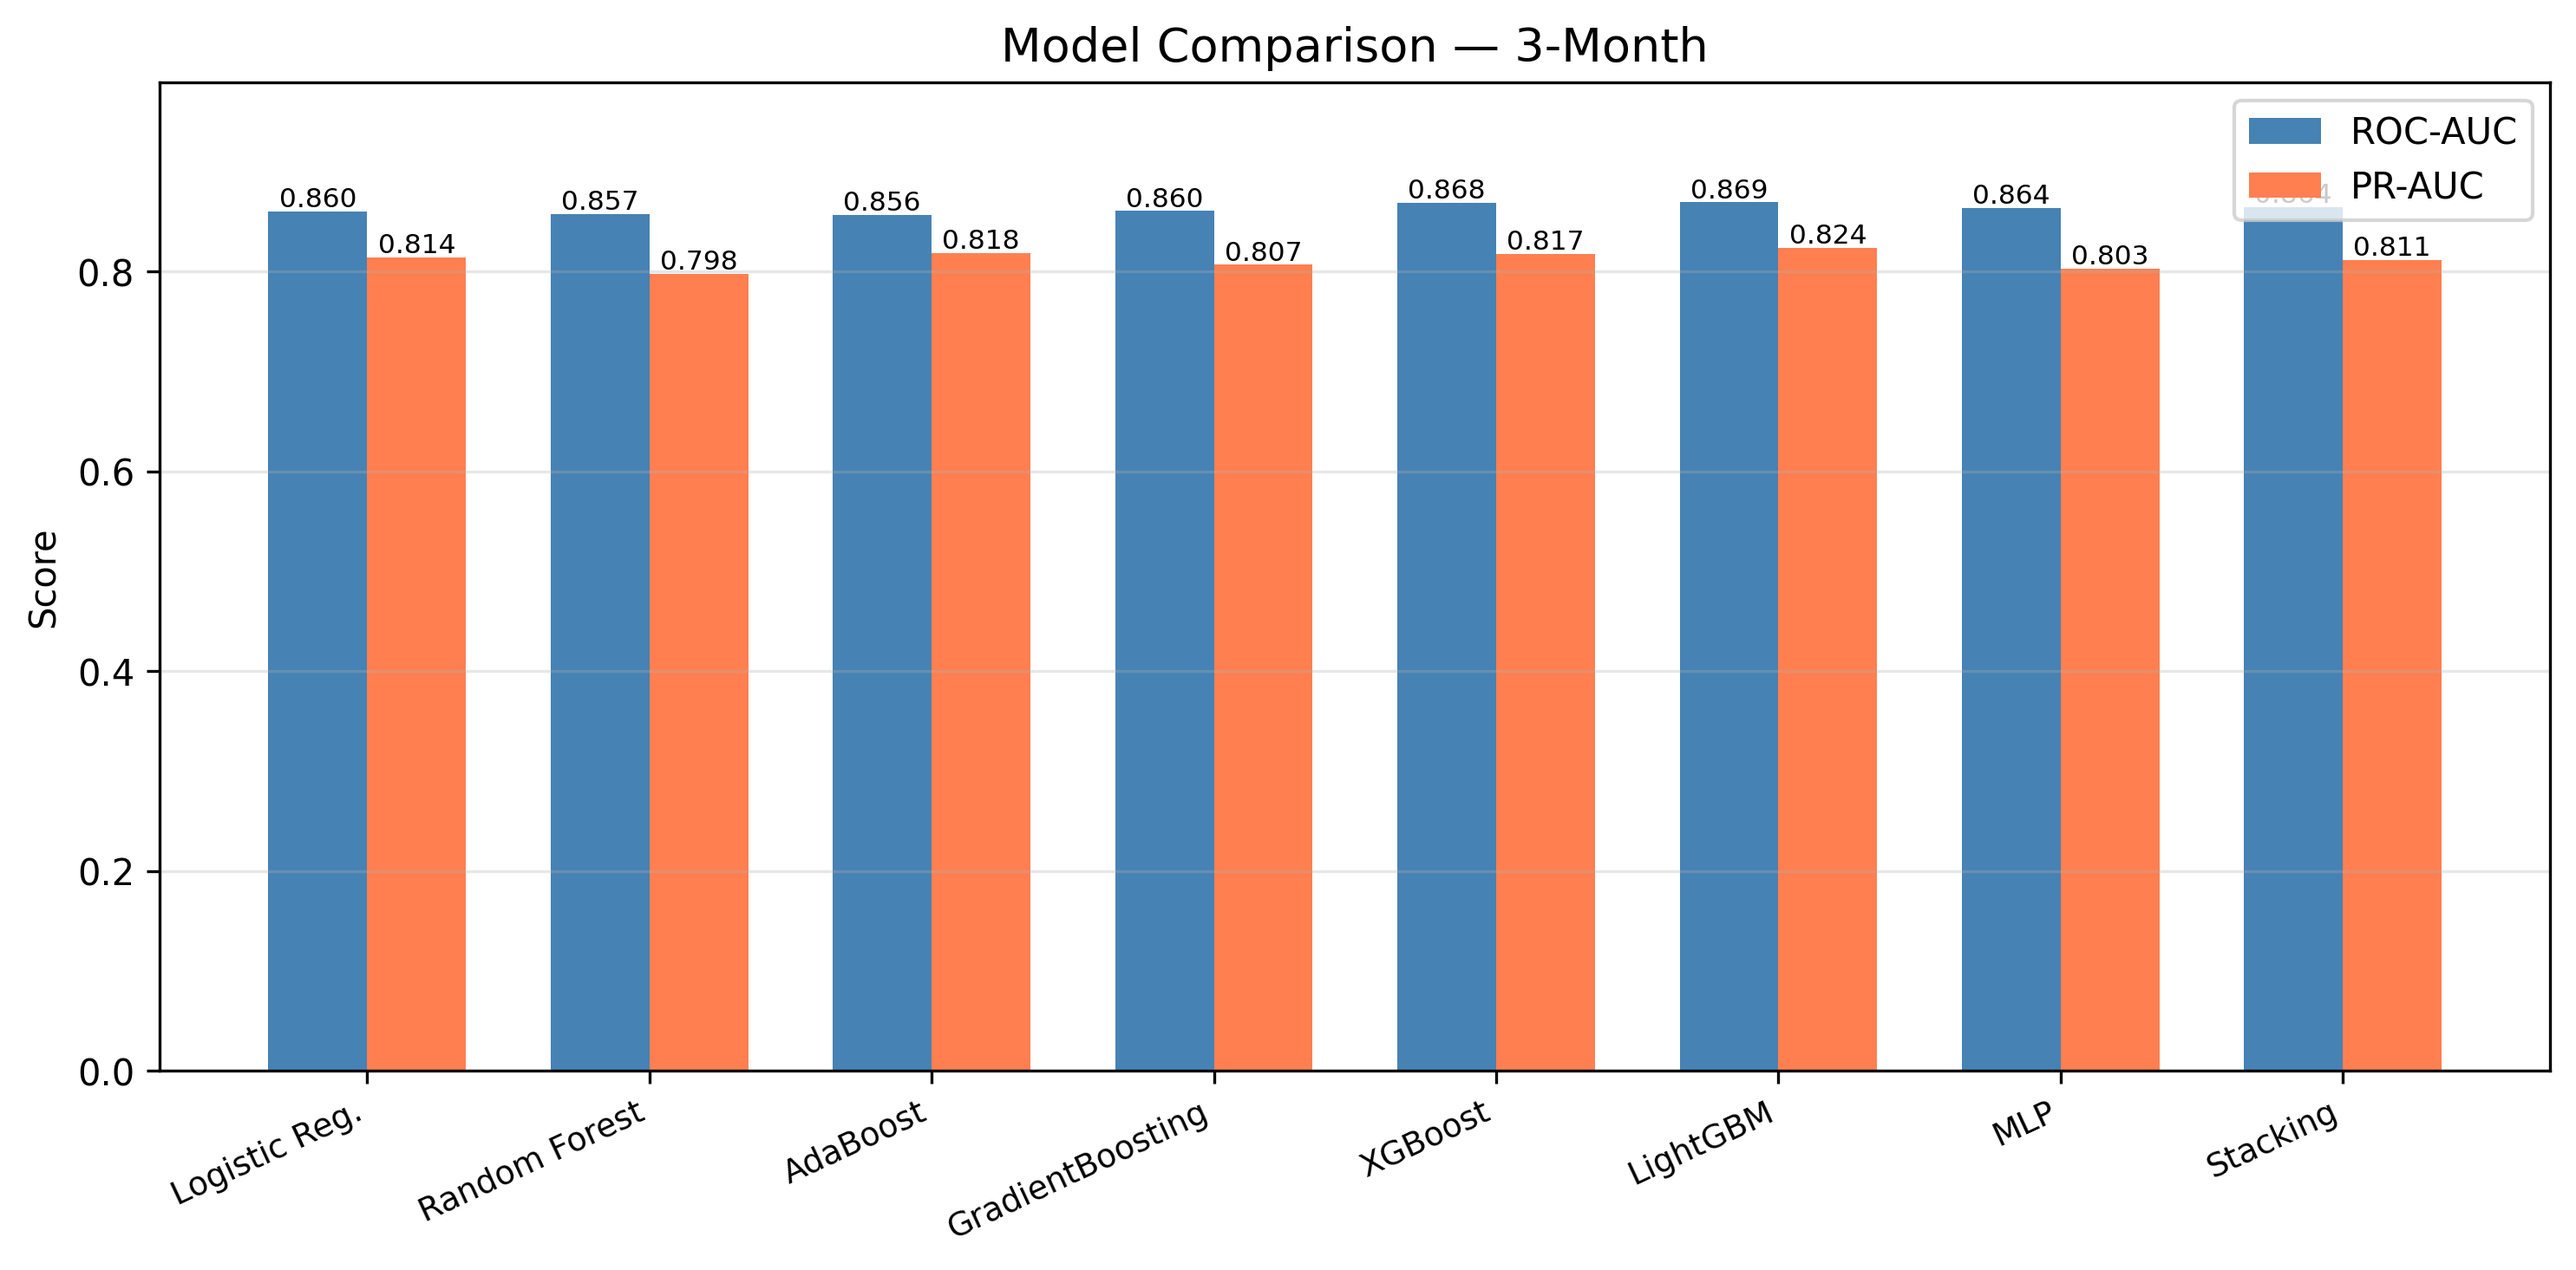
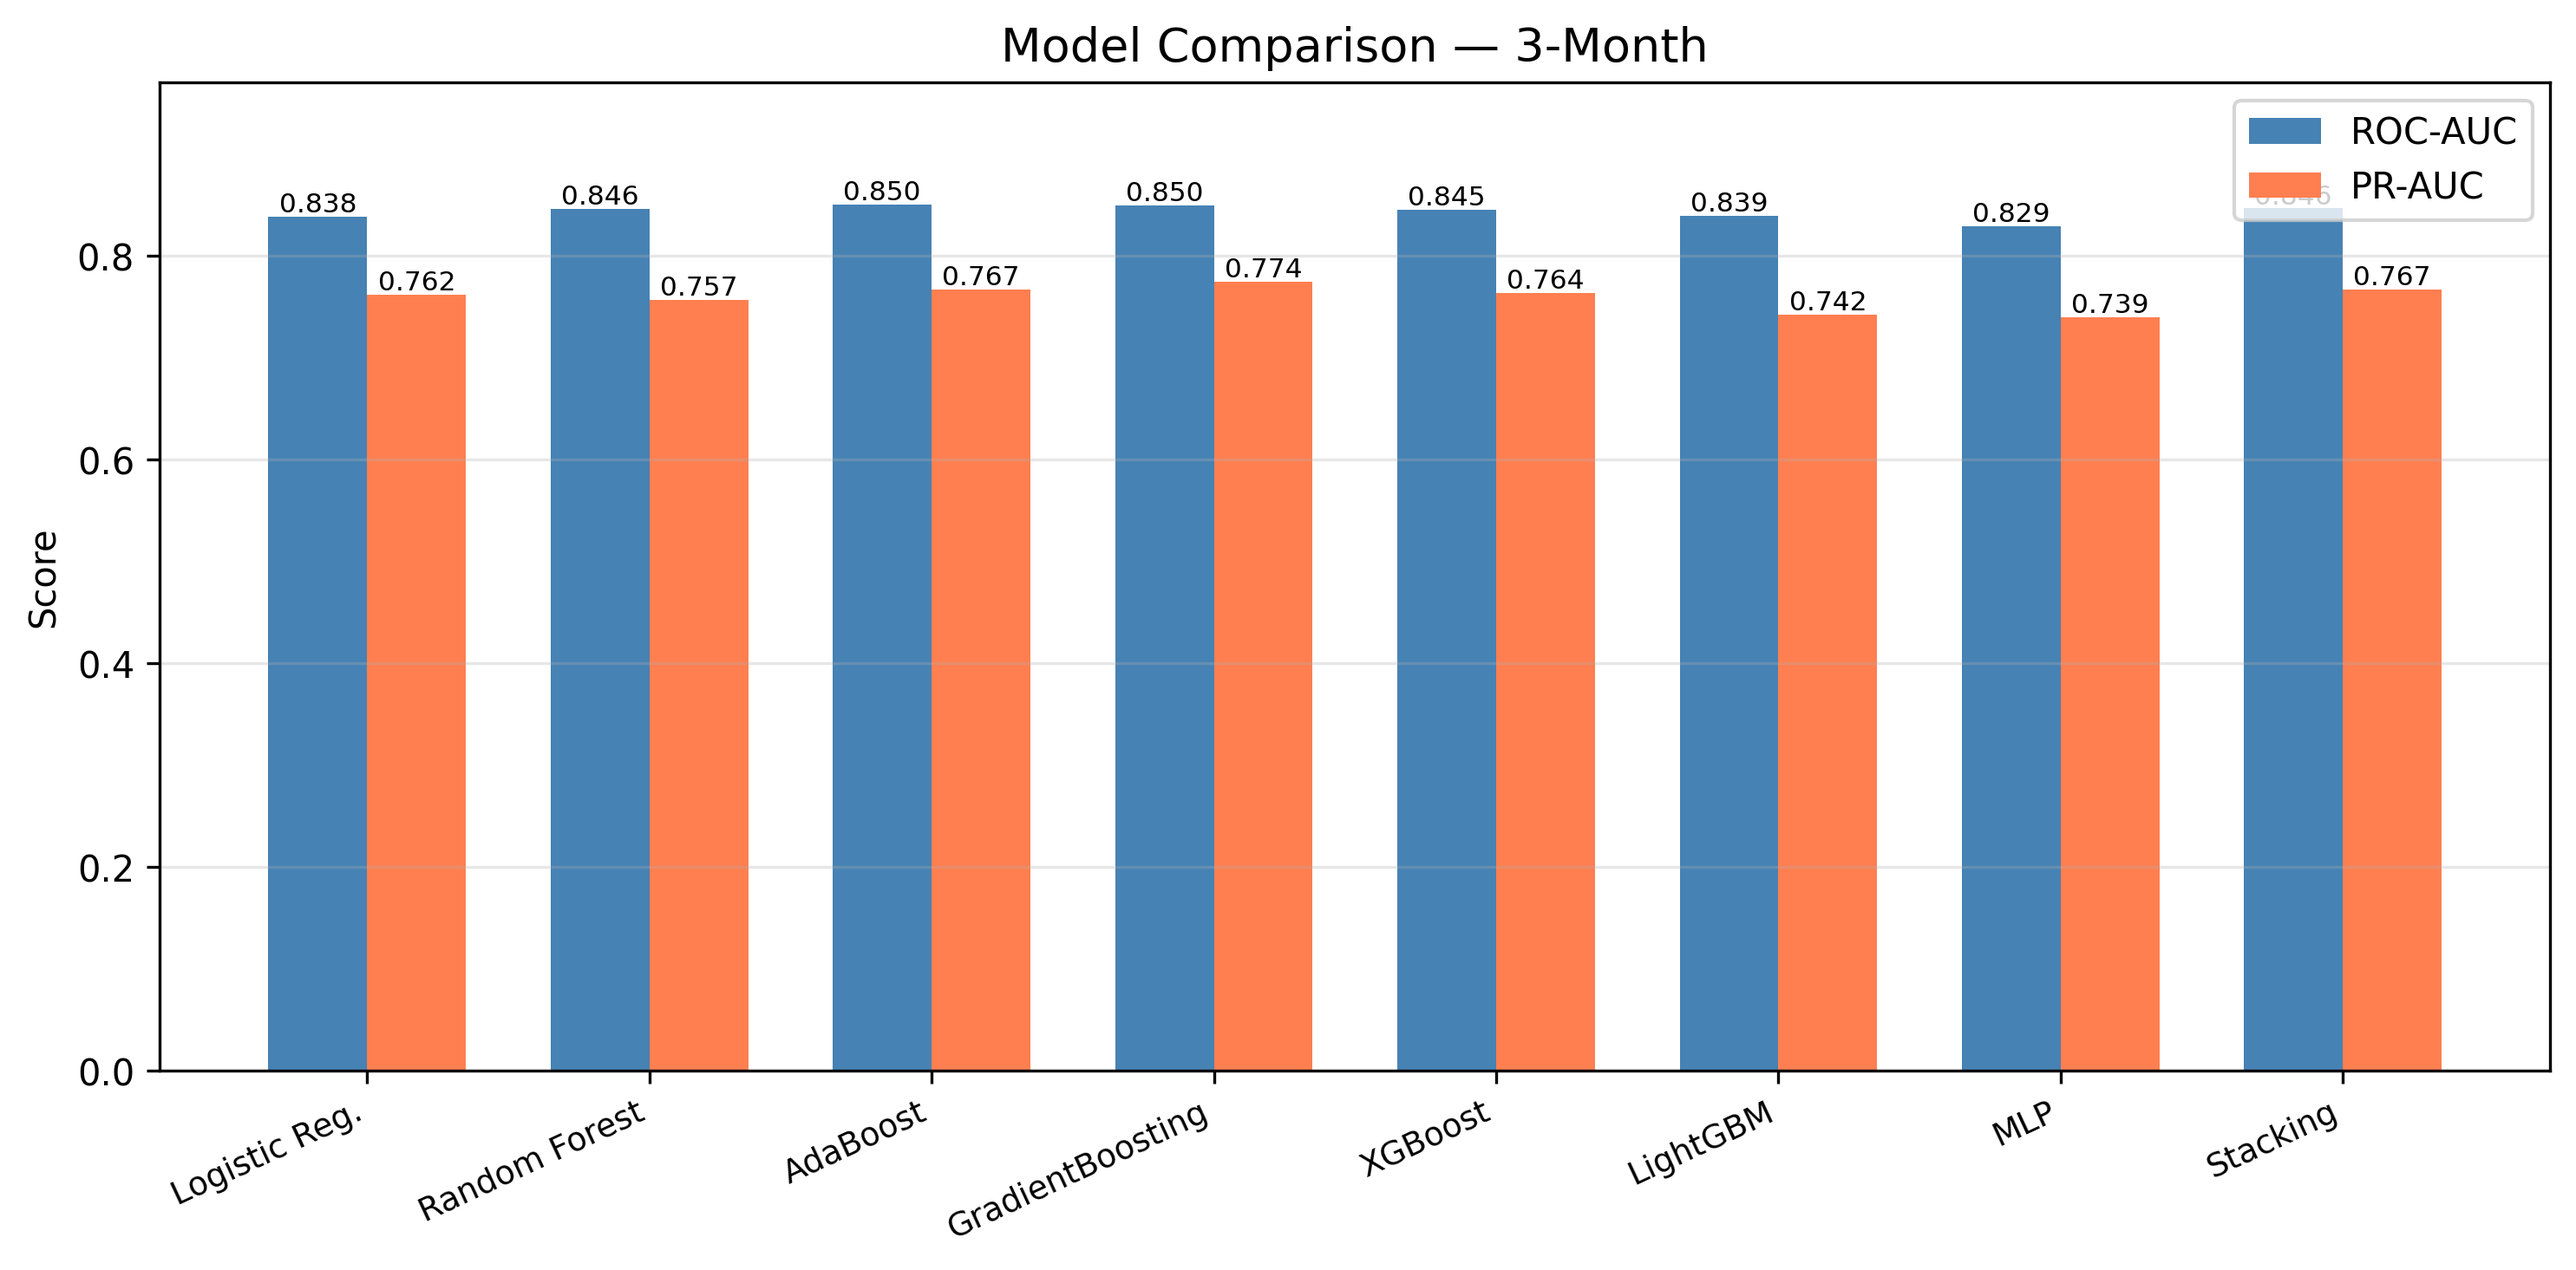
chore: 更新结果与文档
Made-with: Cursor

diff --git a/hyper_detect.py b/hyper_detect.py
@@ -15,7 +15,7 @@ import seaborn as sns
 from pathlib import Path
 import joblib
 
-from sklearn.model_selection import GroupShuffleSplit, RandomizedSearchCV, GroupKFold
+from sklearn.model_selection import RandomizedSearchCV, GroupKFold
 from sklearn.preprocessing import StandardScaler
 from sklearn.pipeline import Pipeline
 from sklearn.base import clone
@@ -234,8 +234,13 @@ def run_experiment(landmark_name, seq_len):
     X_s_raw, ft3_raw, ft4_raw, tsh_raw, y_raw, pids = load_data_raw()
     n_static = X_s_raw.shape[1]
 
-    gss = GroupShuffleSplit(n_splits=1, test_size=0.2, random_state=Config.SEED)
-    train_idx, test_idx = next(gss.split(X_s_raw, y_raw, groups=pids))
+    unique_pids = list(dict.fromkeys(pids))
+    split_idx = int(len(unique_pids) * 0.8)
+    train_pids = set(unique_pids[:split_idx])
+    train_idx = np.where(np.array([pid in train_pids for pid in pids]))[0]
+    test_idx = np.where(np.array([pid not in train_pids for pid in pids]))[0]
+    n_train_patients = len(train_pids)
+    n_test_patients = len(unique_pids) - n_train_patients
 
     # Temporal-safe MissForest: only use columns ≤ seq_len (no future data)
     ft3_cut = ft3_raw[:, :seq_len]
@@ -248,7 +253,7 @@ def run_experiment(landmark_name, seq_len):
         imputer = joblib.load(imputer_path)
         print(f"  MissForest (seq≤{seq_len}): loaded from cache")
     else:
-        print(f"  MissForest (seq≤{seq_len}): fitting on train ({len(train_idx)} samples)...")
+        print(f"  MissForest (seq≤{seq_len}): fitting on train ({n_train_patients} patients, {len(train_idx)} records)...")
         imputer = fit_missforest(raw_all[train_idx])
         joblib.dump(imputer, imputer_path)
         print(f"  MissForest (seq≤{seq_len}): saved to {imputer_path}")
@@ -272,8 +277,8 @@ def run_experiment(landmark_name, seq_len):
     y_te = (y_raw[test_idx] == 1).astype(int)
     groups_tr = pids[train_idx]
 
-    print(f"  Train: {len(y_tr)} samples  (Hyper={y_tr.sum()}, Non-Hyper={len(y_tr)-y_tr.sum()})")
-    print(f"  Test:  {len(y_te)} samples  (Hyper={y_te.sum()}, Non-Hyper={len(y_te)-y_te.sum()})")
+    print(f"  Train: {n_train_patients} patients, {len(y_tr)} records  (Hyper={y_tr.sum()}, Non-Hyper={len(y_tr)-y_tr.sum()})")
+    print(f"  Test:  {n_test_patients} patients, {len(y_te)} records  (Hyper={y_te.sum()}, Non-Hyper={len(y_te)-y_te.sum()})")
     print(f"  Features: {len(feat_names)}")
 
     X_tr_df = pd.DataFrame(X_tr, columns=feat_names)

diff --git a/all2.py b/all2.py
@@ -7,7 +7,6 @@ import torch
 import torch.nn as nn
 import torch.optim as optim
 from torch.utils.data import Dataset, DataLoader
-from sklearn.model_selection import GroupShuffleSplit
 from sklearn.preprocessing import StandardScaler
 from sklearn.metrics import accuracy_score, roc_auc_score, roc_curve
 from sklearn.ensemble import RandomForestClassifier, GradientBoostingClassifier, RandomForestRegressor
@@ -235,9 +234,16 @@ def run_experiment(landmark_name, seq_len):
     X_s_raw, ft3_raw, ft4_raw, tsh_raw, y, pids = load_data_raw()
     n_static = X_s_raw.shape[1]
 
-    # --- Step 1: Split FIRST (by patient group) ---
-    gss = GroupShuffleSplit(n_splits=1, test_size=0.2, random_state=Config.SEED)
-    train_idx, test_idx = next(gss.split(X_s_raw, y, groups=pids))
+    # --- Step 1: Temporal split FIRST (by enrollment order) ---
+    unique_pids = list(dict.fromkeys(pids))
+    split_idx = int(len(unique_pids) * 0.8)
+    train_pids = set(unique_pids[:split_idx])
+    train_idx = np.where(np.array([pid in train_pids for pid in pids]))[0]
+    test_idx = np.where(np.array([pid not in train_pids for pid in pids]))[0]
+    n_train_patients = len(train_pids)
+    n_test_patients = len(unique_pids) - n_train_patients
+    print(f"  Train: {n_train_patients} patients, {len(train_idx)} records")
+    print(f"  Test:  {n_test_patients} patients, {len(test_idx)} records")
 
     # --- Step 2: Temporal-safe MissForest: only columns ≤ seq_len ---
     ft3_cut = ft3_raw[:, :seq_len]
@@ -250,7 +256,7 @@ def run_experiment(landmark_name, seq_len):
         imputer = joblib.load(imputer_path)
         print(f"  MissForest (seq≤{seq_len}): loaded from cache")
     else:
-        print(f"  MissForest (seq≤{seq_len}): fitting on train ({len(train_idx)} samples)...")
+        print(f"  MissForest (seq≤{seq_len}): fitting on train ({n_train_patients} patients, {len(train_idx)} records)...")
         imputer = fit_missforest(raw_all[train_idx])
         joblib.dump(imputer, imputer_path)
         print(f"  MissForest (seq≤{seq_len}): saved to {imputer_path}")

diff --git a/repluse.py b/repluse.py
@@ -1054,7 +1054,10 @@ def main():
     train_pids = set(unique_pids[:split_idx])
     tr_mask = np.array([p in train_pids for p in pids])
     te_mask = ~tr_mask
-    print(f"  Train: {tr_mask.sum()}  Test: {te_mask.sum()}")
+    n_train_patients = len(train_pids)
+    n_test_patients = len(unique_pids) - n_train_patients
+    print(f"  Train: {n_train_patients} patients, {tr_mask.sum()} records")
+    print(f"  Test:  {n_test_patients} patients, {te_mask.sum()} records")
 
     # --- Phase 1: Transition heatmaps (depth-6 imputer for descriptive view) ---
     print(f"\n--- Phase 1: State Transition Heatmaps ---")
@@ -1066,7 +1069,7 @@ def main():
         hm_imputer = joblib.load(hm_imp_path)
         print(f"  MissForest depth-{max_depth}: loaded from cache")
     else:
-        print(f"  MissForest depth-{max_depth}: fitting on train ({tr_mask.sum()})...")
+        print(f"  MissForest depth-{max_depth}: fitting on train ({n_train_patients} patients, {tr_mask.sum()} records)...")
         hm_imputer = fit_missforest(hm_raw[tr_mask])
         joblib.dump(hm_imputer, hm_imp_path)
     hm_filled = apply_missforest(hm_raw, hm_imputer, max_depth)
@@ -1092,7 +1095,7 @@ def main():
         if imp_path.exists():
             imputer = joblib.load(imp_path)
         else:
-            print(f"  MissForest depth-{depth} ({interval_name}): fitting on train...")
+            print(f"  MissForest depth-{depth} ({interval_name}): fitting on train ({n_train_patients} patients, {tr_mask.sum()} records)...")
             imputer = fit_missforest(raw[tr_mask])
             joblib.dump(imputer, imp_path)
 
